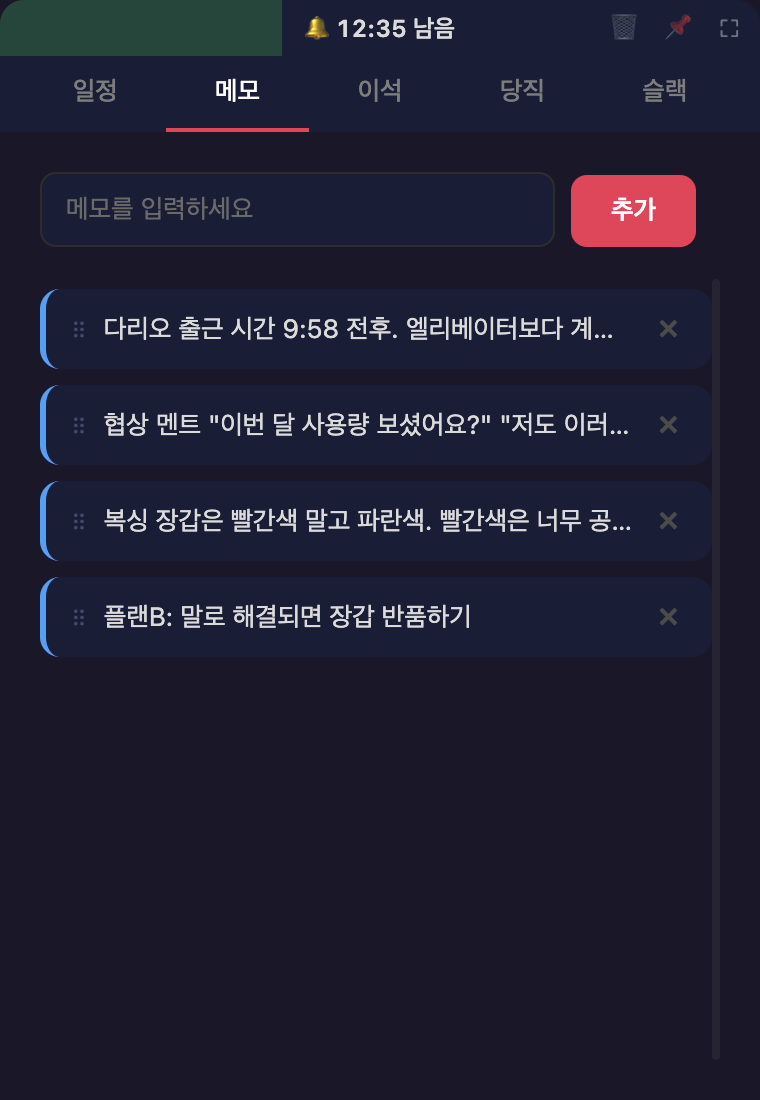
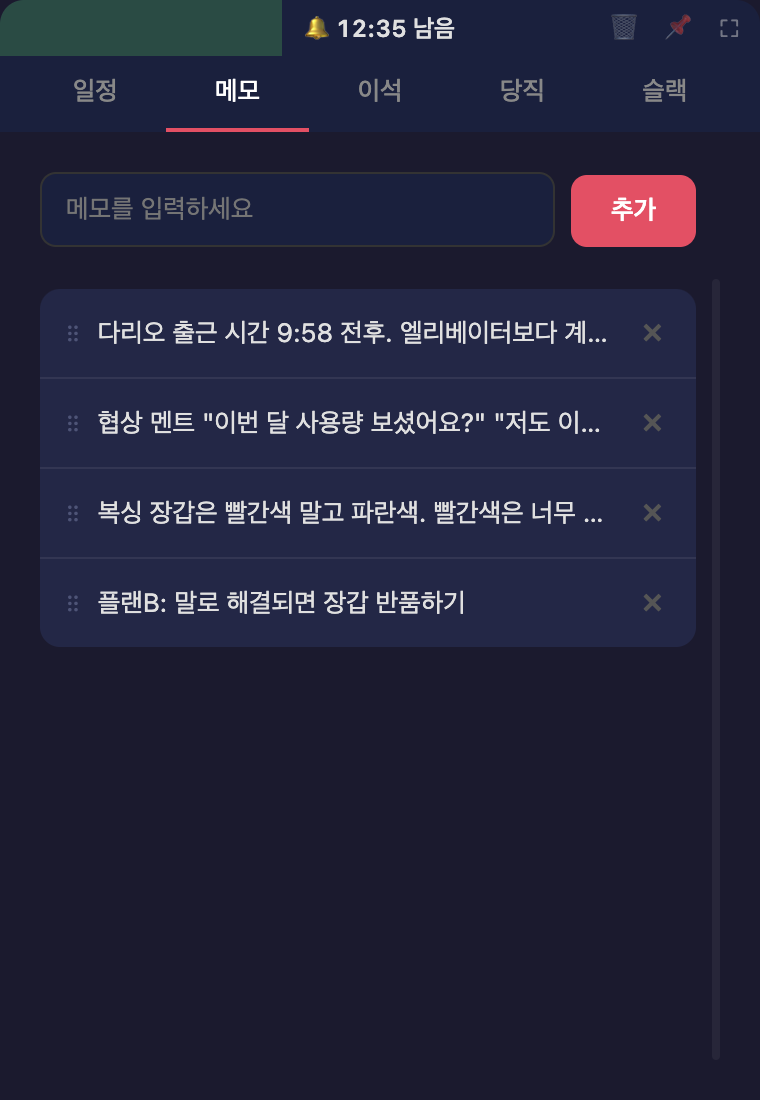
일정을 날짜별로 묶고 목록 카드의 왼쪽 강조선 제거
목록 카드 왼쪽의 둥근 색 선을 없앴다.
선만 빼면 카드 배경이 바탕과 거의 같은 밝기라 경계가 흐려진다.
그래서 일정, 메모, 휴지통은 카드 배경을 밝히고 항목을 한 상자로 묶어 사이에 줄을 그었다.
일정은 같은 날짜끼리 묶어 날짜를 상자 위에 한 번만 보여주고, 한 줄에는 시간과 내용만 둔다.
선 색으로 알리던 지난 일정과 알림이 울린 일정은 시간 글자색으로 구분한다.
반복 일정 관리 화면은 항목 사이 간격과 켜짐, 꺼짐 아이콘으로 구분되므로 선만 뺐다.

시간 칸이 생기면서 긴 일정의 툴팁이 팝업 오른쪽 밖으로 넘쳤다.
툴팁의 기준을 내용 칸에서 항목 상자로 옮겼다.
메모 목록은 padding 단축 속성이 스크롤바 자리 여백을 덮어써 오른쪽 끝이 입력창보다 8px 튀어나와 있었다.
위아래 여백만 따로 주도록 바꿨다.
README의 일정, 메모 캡처도 다시 찍었다.

Changed region(s): [[0.0303, 0.2782, 0.9382, 0.5873]]

diff --git a/src/renderer/styles.css b/src/renderer/styles.css
@@ -255,36 +255,47 @@ input:focus, textarea:focus {
   overflow-y: scroll;
   display: flex;
   flex-direction: column;
-  gap: 8px;
+  gap: 16px;
   padding-bottom: 4px;
 }
 
 
 .schedule-item {
+  /* 내용 툴팁의 기준 상자.
+     내용 칸은 시간 뒤에서 시작하므로 내용 칸을 기준으로 하면 툴팁이 오른쪽으로 넘친다. */
+  position: relative;
   display: flex;
   align-items: center;
   justify-content: space-between;
   padding: 12px 16px;
-  background: #16213e;
-  border-radius: 10px;
-  border-left: 3px solid #e94560;
+  background: #1f2847;
   transition: background 0.2s;
 }
 
 .schedule-item:hover {
-  background: #1a2742;
+  background: #253055;
+}
+
+/* 같은 날짜의 일정은 한 상자로 보이도록 바깥 모서리만 둥글게 하고 사이에 줄을 긋는다 */
+.schedule-group-date + .schedule-item {
+  border-top-left-radius: 10px;
+  border-top-right-radius: 10px;
+}
+
+.schedule-item:last-child {
+  border-bottom-left-radius: 10px;
+  border-bottom-right-radius: 10px;
+}
+
+.schedule-item + .schedule-item {
+  border-top: 1px solid rgba(255, 255, 255, 0.07);
 }
 
 /* 흐림을 항목 전체에 걸면 opacity가 합성 그룹을 만들어 자식인 툴팁까지 반투명해진다.
-   툴팁은 오버레이라 또렷해야 하므로, 흐림 대상을 본문 요소로만 좁힌다 */
-.schedule-item.past {
-  border-left-color: #555;
-}
-
-/* .schedule-content-tooltip은 .schedule-content의 형제라 여기 영향을 받지 않는다.
+   툴팁은 오버레이라 또렷해야 하므로, 흐림 대상을 본문 요소로만 좁힌다.
+   .schedule-content-tooltip은 .schedule-content의 형제라 여기 영향을 받지 않는다.
    ::after로 툴팁을 다는 .routine-badge는 부모를 흐리면 상쇄가 불가능하므로 손대지 않는다
    (기본 opacity 0.7로 이미 물러나 있다). */
-.schedule-item.past .schedule-date,
 .schedule-item.past .schedule-time,
 .schedule-item.past .schedule-content,
 .schedule-item.past .edit-btn,
@@ -292,35 +303,46 @@ input:focus, textarea:focus {
   opacity: 0.5;
 }
 
-.schedule-item.notified {
-  border-left-color: #4caf50;
+/* 지난 일정과 알림이 울린 일정은 시간 색으로 구분한다 */
+.schedule-item.past .schedule-time {
+  color: #888;
+}
+
+.schedule-item.notified .schedule-time {
+  color: #4caf50;
 }
 
 .schedule-info {
   display: flex;
-  flex-wrap: wrap;
-  gap: 4px 12px;
+  gap: 12px;
   align-items: center;
   flex: 1;
   min-width: 0;
+  margin-right: 8px;
 }
 
-.schedule-date {
+.schedule-group-date {
   color: #e94560;
   font-weight: 600;
-  font-size: 13px;
-  white-space: nowrap;
+  font-size: 12px;
+  margin: 0 0 7px 4px;
+}
+
+.schedule-group-date.past {
+  color: #888;
+  opacity: 0.5;
 }
 
 .schedule-time {
-  color: #888;
+  color: #c9cce0;
   font-size: 13px;
+  font-variant-numeric: tabular-nums;
   white-space: nowrap;
+  flex-shrink: 0;
 }
 
 .schedule-content-wrap {
-  position: relative;
-  flex-basis: 100%;
+  flex: 1;
   min-width: 0;
   display: flex;
 }
@@ -359,7 +381,7 @@ input:focus, textarea:focus {
   display: block;
 }
 
-.schedule-item:last-child .schedule-content-tooltip {
+.schedule-group:last-child .schedule-item:last-child .schedule-content-tooltip {
   top: auto;
   bottom: 110%;
 }
@@ -419,7 +441,7 @@ input:focus, textarea:focus {
   display: block;
 }
 
-.schedule-item:last-child .resend-btn::after {
+.schedule-group:last-child .schedule-item:last-child .resend-btn::after {
   top: auto;
   bottom: calc(100% + 6px);
 }
@@ -633,22 +655,36 @@ input:focus, textarea:focus {
   overflow-y: scroll;
   display: flex;
   flex-direction: column;
-  gap: 8px;
-  /* 첫/마지막 항목의 드롭 표시선이 잘리지 않도록 여백 확보 */
-  padding: 5px 0;
+  /* 첫/마지막 항목의 드롭 표시선이 잘리지 않도록 위아래 여백 확보.
+     padding 단축 속성을 쓰면 맨 위 공통 규칙의 padding-right(스크롤바 자리)를 덮어쓰므로 나눠 쓴다. */
+  padding-top: 5px;
+  padding-bottom: 5px;
 }
 
 
 
 .memo-item {
   padding: 14px 16px;
-  background: #16213e;
-  border-radius: 10px;
-  border-left: 3px solid #4dabf7;
+  background: #1f2847;
+}
+
+/* 메모도 일정처럼 한 상자로 보이도록 바깥 모서리만 둥글게 하고 사이에 줄을 긋는다 */
+.memo-item:first-child {
+  border-top-left-radius: 10px;
+  border-top-right-radius: 10px;
+}
+
+.memo-item:last-child {
+  border-bottom-left-radius: 10px;
+  border-bottom-right-radius: 10px;
+}
+
+.memo-item + .memo-item {
+  border-top: 1px solid rgba(255, 255, 255, 0.07);
 }
 
 .memo-item.slim {
-  padding: 10px 12px;
+  padding: 12px;
   display: flex;
   align-items: center;
   gap: 8px;
@@ -687,14 +723,16 @@ input:focus, textarea:focus {
   height: 2px;
   background: #e94560;
   border-radius: 2px;
+  /* 항목 사이 간격이 없으므로 이웃 항목 배경에 가리지 않게 올린다 */
+  z-index: 1;
 }
 
 .memo-item.drop-above::before {
-  top: -5px;
+  top: -1px;
 }
 
 .memo-item.drop-below::after {
-  bottom: -5px;
+  bottom: -1px;
 }
 
 .memo-item.dragging .memo-grip {
@@ -1070,12 +1108,7 @@ input:focus, textarea:focus {
 
 /* 팝업 일정 아이템 - 컴팩트 */
 .popup-mode .schedule-item {
-  padding: 10px 12px;
-}
-
-.popup-mode .schedule-info {
-  gap: 8px;
-  flex-wrap: wrap;
+  padding: 12px;
 }
 
 .popup-mode .schedule-content {
@@ -1085,7 +1118,7 @@ input:focus, textarea:focus {
 
 /* 팝업 메모 */
 .popup-mode .memo-item {
-  padding: 10px 12px;
+  padding: 12px;
 }
 
 .popup-mode .memo-content {
@@ -1990,16 +2023,24 @@ input:focus, textarea:focus {
   overflow-y: scroll;
   display: flex;
   flex-direction: column;
-  gap: 8px;
 }
 .trash-item {
   display: flex;
   align-items: center;
   gap: 8px;
   padding: 10px 12px;
-  background: #16213e;
-  border-radius: 8px;
-  border-left: 3px solid #888;
+  background: #1f2847;
+}
+.trash-item:first-child {
+  border-top-left-radius: 8px;
+  border-top-right-radius: 8px;
+}
+.trash-item:last-child {
+  border-bottom-left-radius: 8px;
+  border-bottom-right-radius: 8px;
+}
+.trash-item + .trash-item {
+  border-top: 1px solid rgba(255, 255, 255, 0.07);
 }
 .trash-item-info {
   flex: 1;
@@ -2869,7 +2910,7 @@ input:focus, textarea:focus {
 }
 
 /* 마지막 항목은 아래가 막혀 있으므로 위로 */
-.schedule-item:last-child .routine-badge::after {
+.schedule-group:last-child .schedule-item:last-child .routine-badge::after {
   top: auto;
   bottom: calc(100% + 6px);
 }
@@ -2909,7 +2950,6 @@ input:focus, textarea:focus {
   padding: 10px 12px;
   background: #1a2742;
   border-radius: 8px;
-  border-left: 3px solid #e94560;
   transition: background 0.2s;
 }
 
@@ -2919,7 +2959,6 @@ input:focus, textarea:focus {
 
 .routine-item.off {
   opacity: 0.45;
-  border-left-color: #555;
 }
 
 .routine-toggle {

diff --git a/src/renderer/components/ScheduleTab.tsx b/src/renderer/components/ScheduleTab.tsx
@@ -117,6 +117,14 @@ export default function ScheduleTab({ schedules, onSave, onDelete, settings, onS
     ? schedules.filter((s) => s.date === selectedDate)
     : [...schedules].sort((a, b) => new Date(a.datetime).getTime() - new Date(b.datetime).getTime())
 
+  // 같은 날짜끼리 묶어서 날짜는 묶음 머리에 한 번만 보여준다
+  const scheduleGroups: { date: string; items: Schedule[] }[] = []
+  for (const s of filteredSchedules) {
+    const last = scheduleGroups[scheduleGroups.length - 1]
+    if (last && last.date === s.date) last.items.push(s)
+    else scheduleGroups.push({ date: s.date, items: [s] })
+  }
+
   const scheduleDates = schedules.map((s) => s.date)
 
   const formatDisplayDate = (dateStr: string): string => {
@@ -207,38 +215,44 @@ export default function ScheduleTab({ schedules, onSave, onDelete, settings, onS
                 <EmptyBell message="일정을 추가해보세요" />
               )
             ) : (
-              filteredSchedules.map((s) => (
-                <div
-                  key={s.id}
-                  className={`schedule-item ${isPast(s.datetime) ? 'past' : ''} ${s.notified ? 'notified' : ''}`}
-                >
-                  <div className="schedule-info">
-                    <span className="schedule-date">{formatDisplayDate(s.date)}</span>
-                    <span className="schedule-time">{formatTime(s.time)}</span>
-                    {s.routineId && (
-                      <span
-                        className="routine-badge"
-                        data-tooltip={s.detached ? '반복 일정 (개별 수정됨)' : '반복 일정에서 자동 생성'}
-                      >
-                        🔁
-                      </span>
-                    )}
-                    {s.notified && !isPast(s.datetime) && (
-                      <button
-                        className="resend-btn"
-                        onClick={() => resendNotification(s.id)}
-                        data-tooltip="알림 다시 받기"
-                      >
-                        🔔
-                      </button>
-                    )}
-                    <span className="schedule-content-wrap">
-                      <span className="schedule-content">{s.content}</span>
-                      <span className="schedule-content-tooltip">{s.content}</span>
-                    </span>
+              scheduleGroups.map((g) => (
+                <div key={g.date} className="schedule-group">
+                  <div className={`schedule-group-date ${g.items.every((s) => isPast(s.datetime)) ? 'past' : ''}`}>
+                    {formatDisplayDate(g.date)}
                   </div>
-                  <button className="edit-btn" onClick={() => startEdit(s)}>✎</button>
-                  <button className="delete-btn" onClick={() => removeSchedule(s.id)}>×</button>
+                  {g.items.map((s) => (
+                    <div
+                      key={s.id}
+                      className={`schedule-item ${isPast(s.datetime) ? 'past' : ''} ${s.notified ? 'notified' : ''}`}
+                    >
+                      <div className="schedule-info">
+                        <span className="schedule-time">{formatTime(s.time)}</span>
+                        {s.routineId && (
+                          <span
+                            className="routine-badge"
+                            data-tooltip={s.detached ? '반복 일정 (개별 수정됨)' : '반복 일정에서 자동 생성'}
+                          >
+                            🔁
+                          </span>
+                        )}
+                        {s.notified && !isPast(s.datetime) && (
+                          <button
+                            className="resend-btn"
+                            onClick={() => resendNotification(s.id)}
+                            data-tooltip="알림 다시 받기"
+                          >
+                            🔔
+                          </button>
+                        )}
+                        <span className="schedule-content-wrap">
+                          <span className="schedule-content">{s.content}</span>
+                          <span className="schedule-content-tooltip">{s.content}</span>
+                        </span>
+                      </div>
+                      <button className="edit-btn" onClick={() => startEdit(s)}>✎</button>
+                      <button className="delete-btn" onClick={() => removeSchedule(s.id)}>×</button>
+                    </div>
+                  ))}
                 </div>
               ))
             )}
